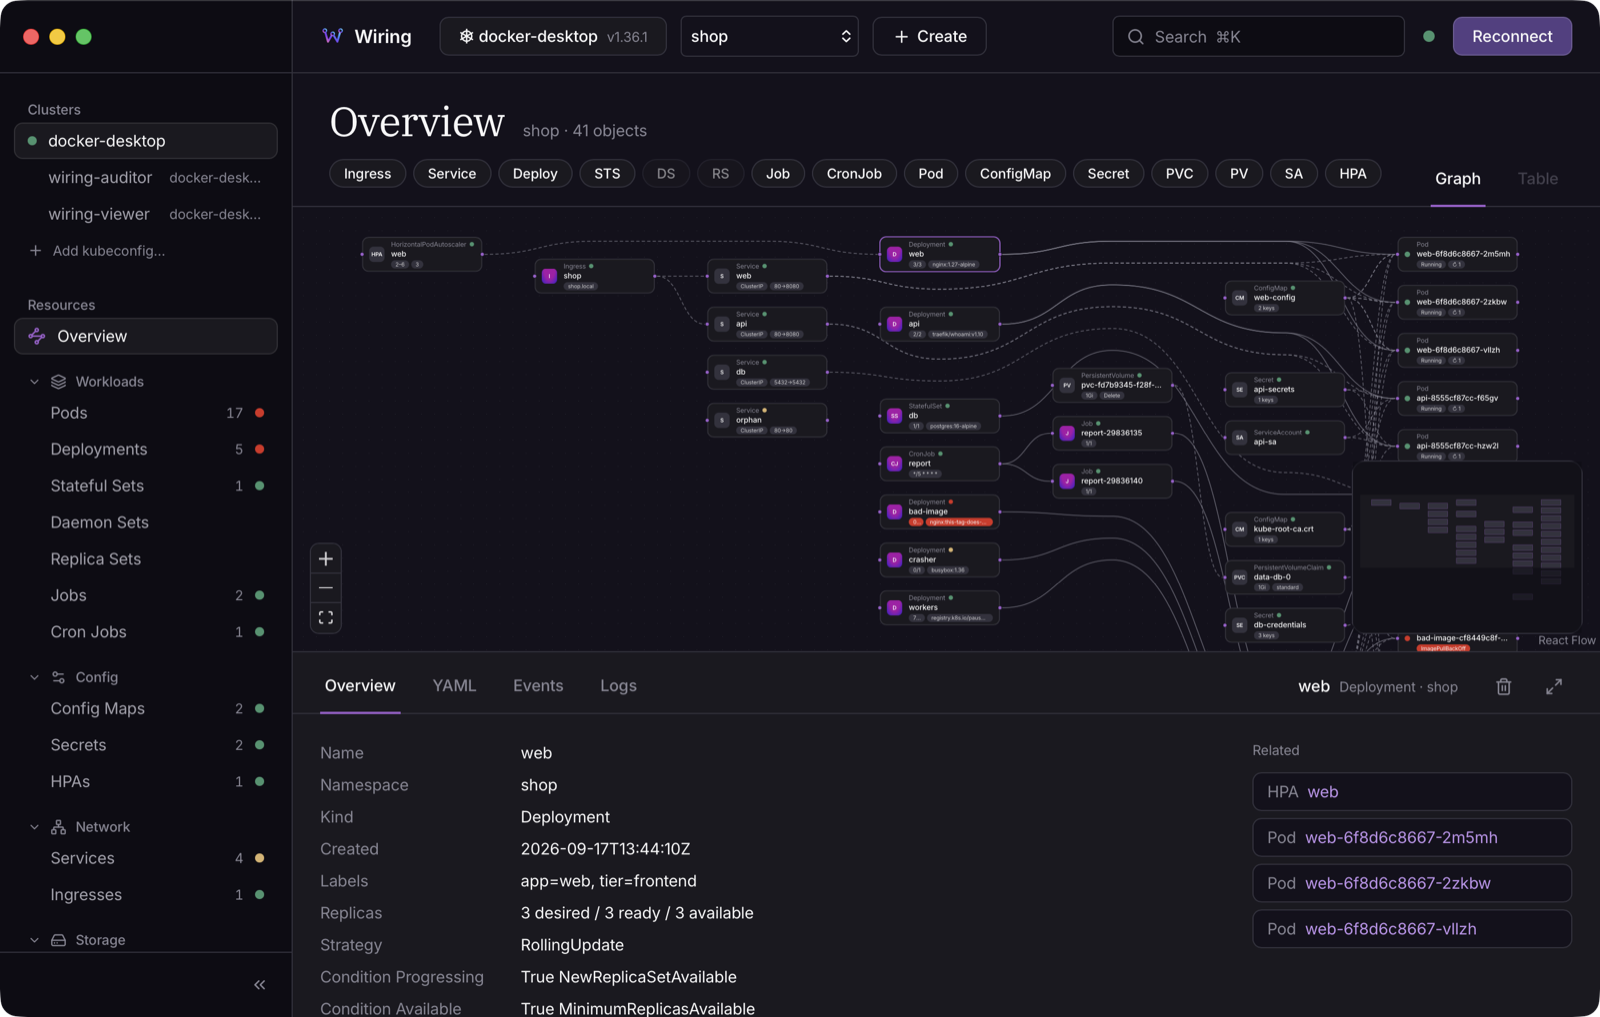
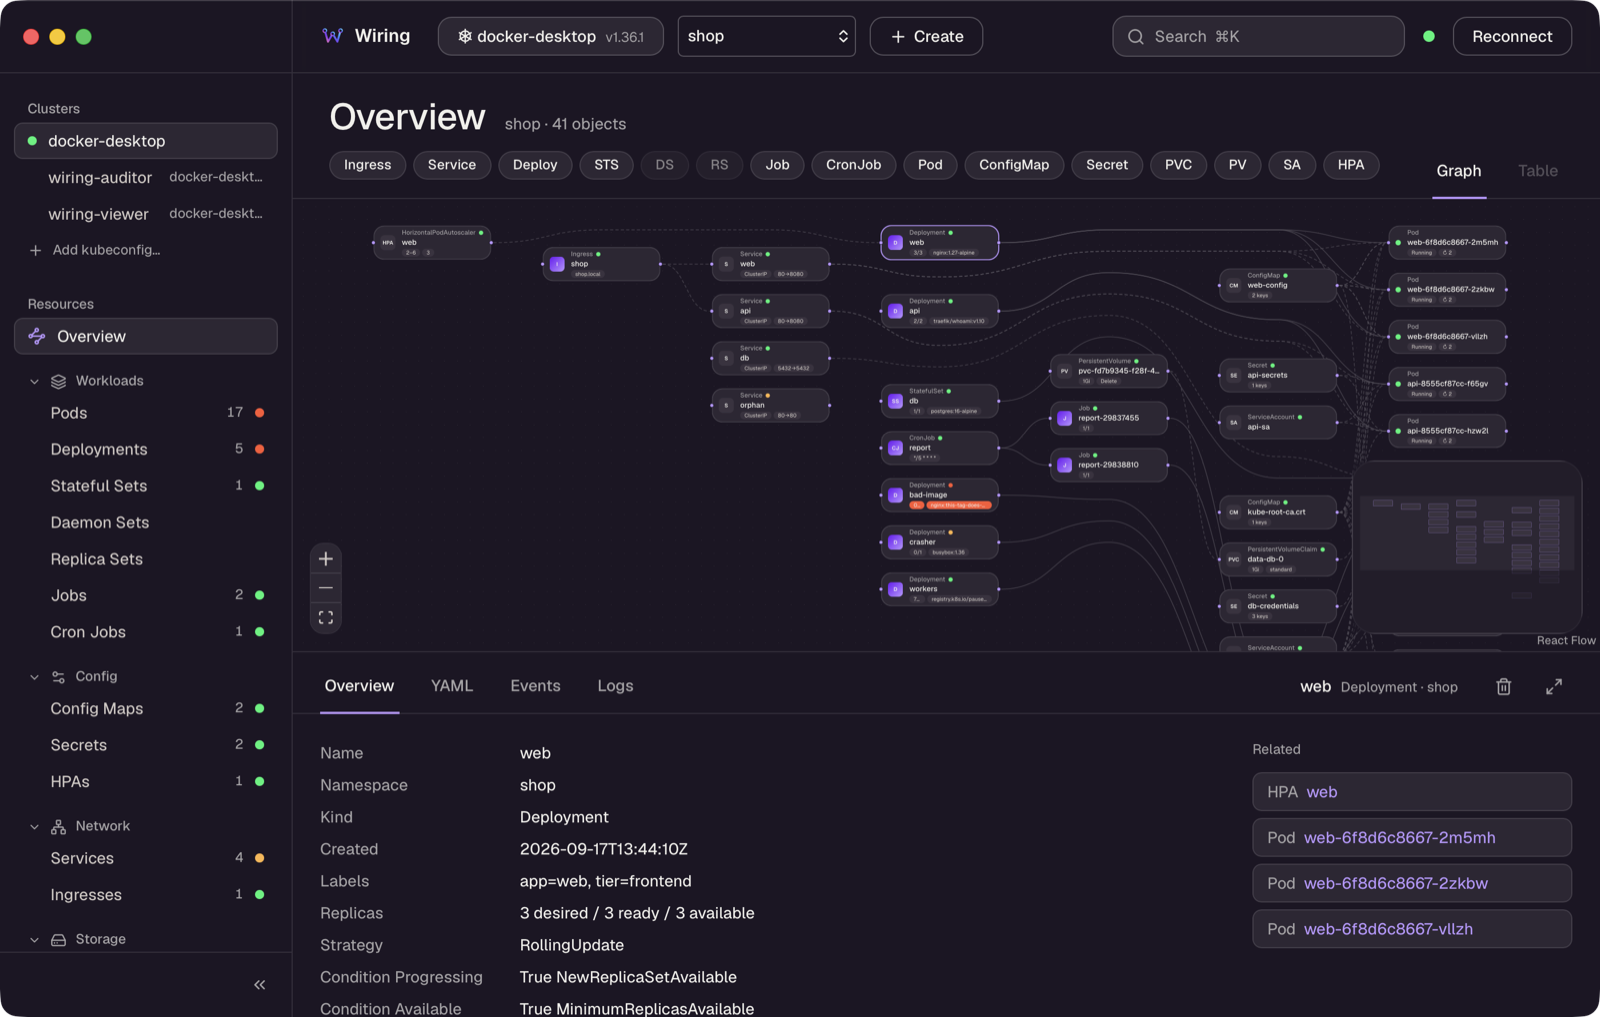
Release 0.2.0: Doppler screenshots in the README, version bump

diff --git a/README.md b/README.md
@@ -77,7 +77,7 @@ If the object changed on the server while you were editing, you can **Reload** (
 - Search with match stepping, clear the view, or download the log to a file.
 - ANSI colours are rendered.
 
-![Live logs of the web Deployment, merged across its three pods](docs/images/logs.png)
+![The Deployments table with live logs of the web Deployment, merged across its three pods](docs/images/logs.png)
 
 ## Try it on a demo cluster
 
